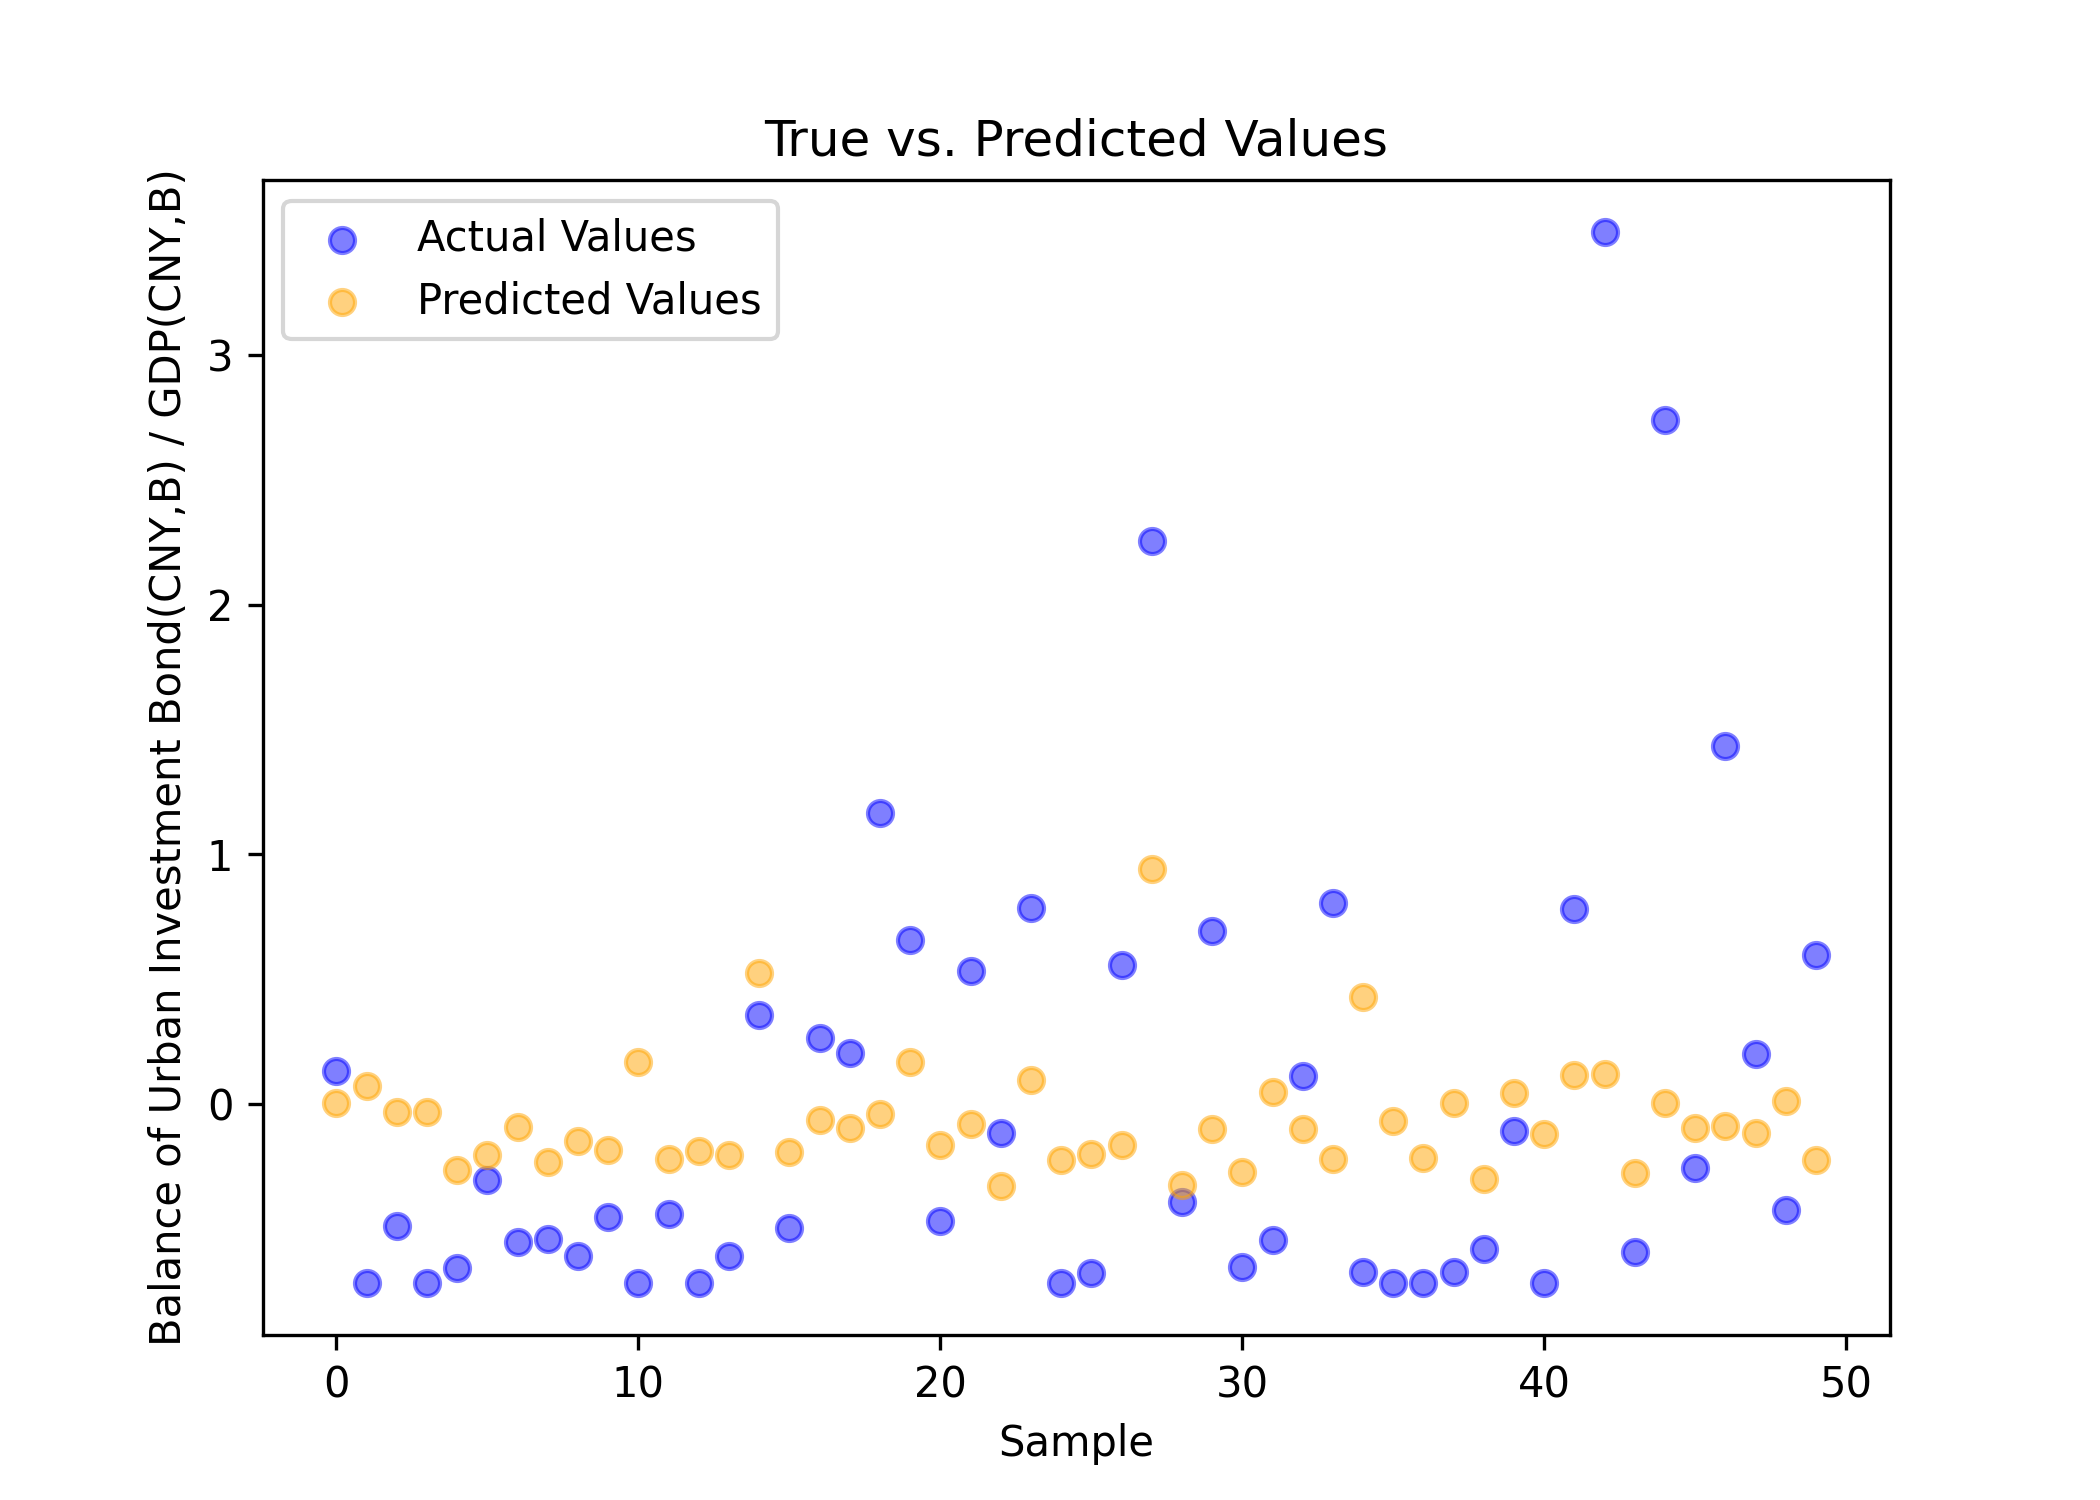
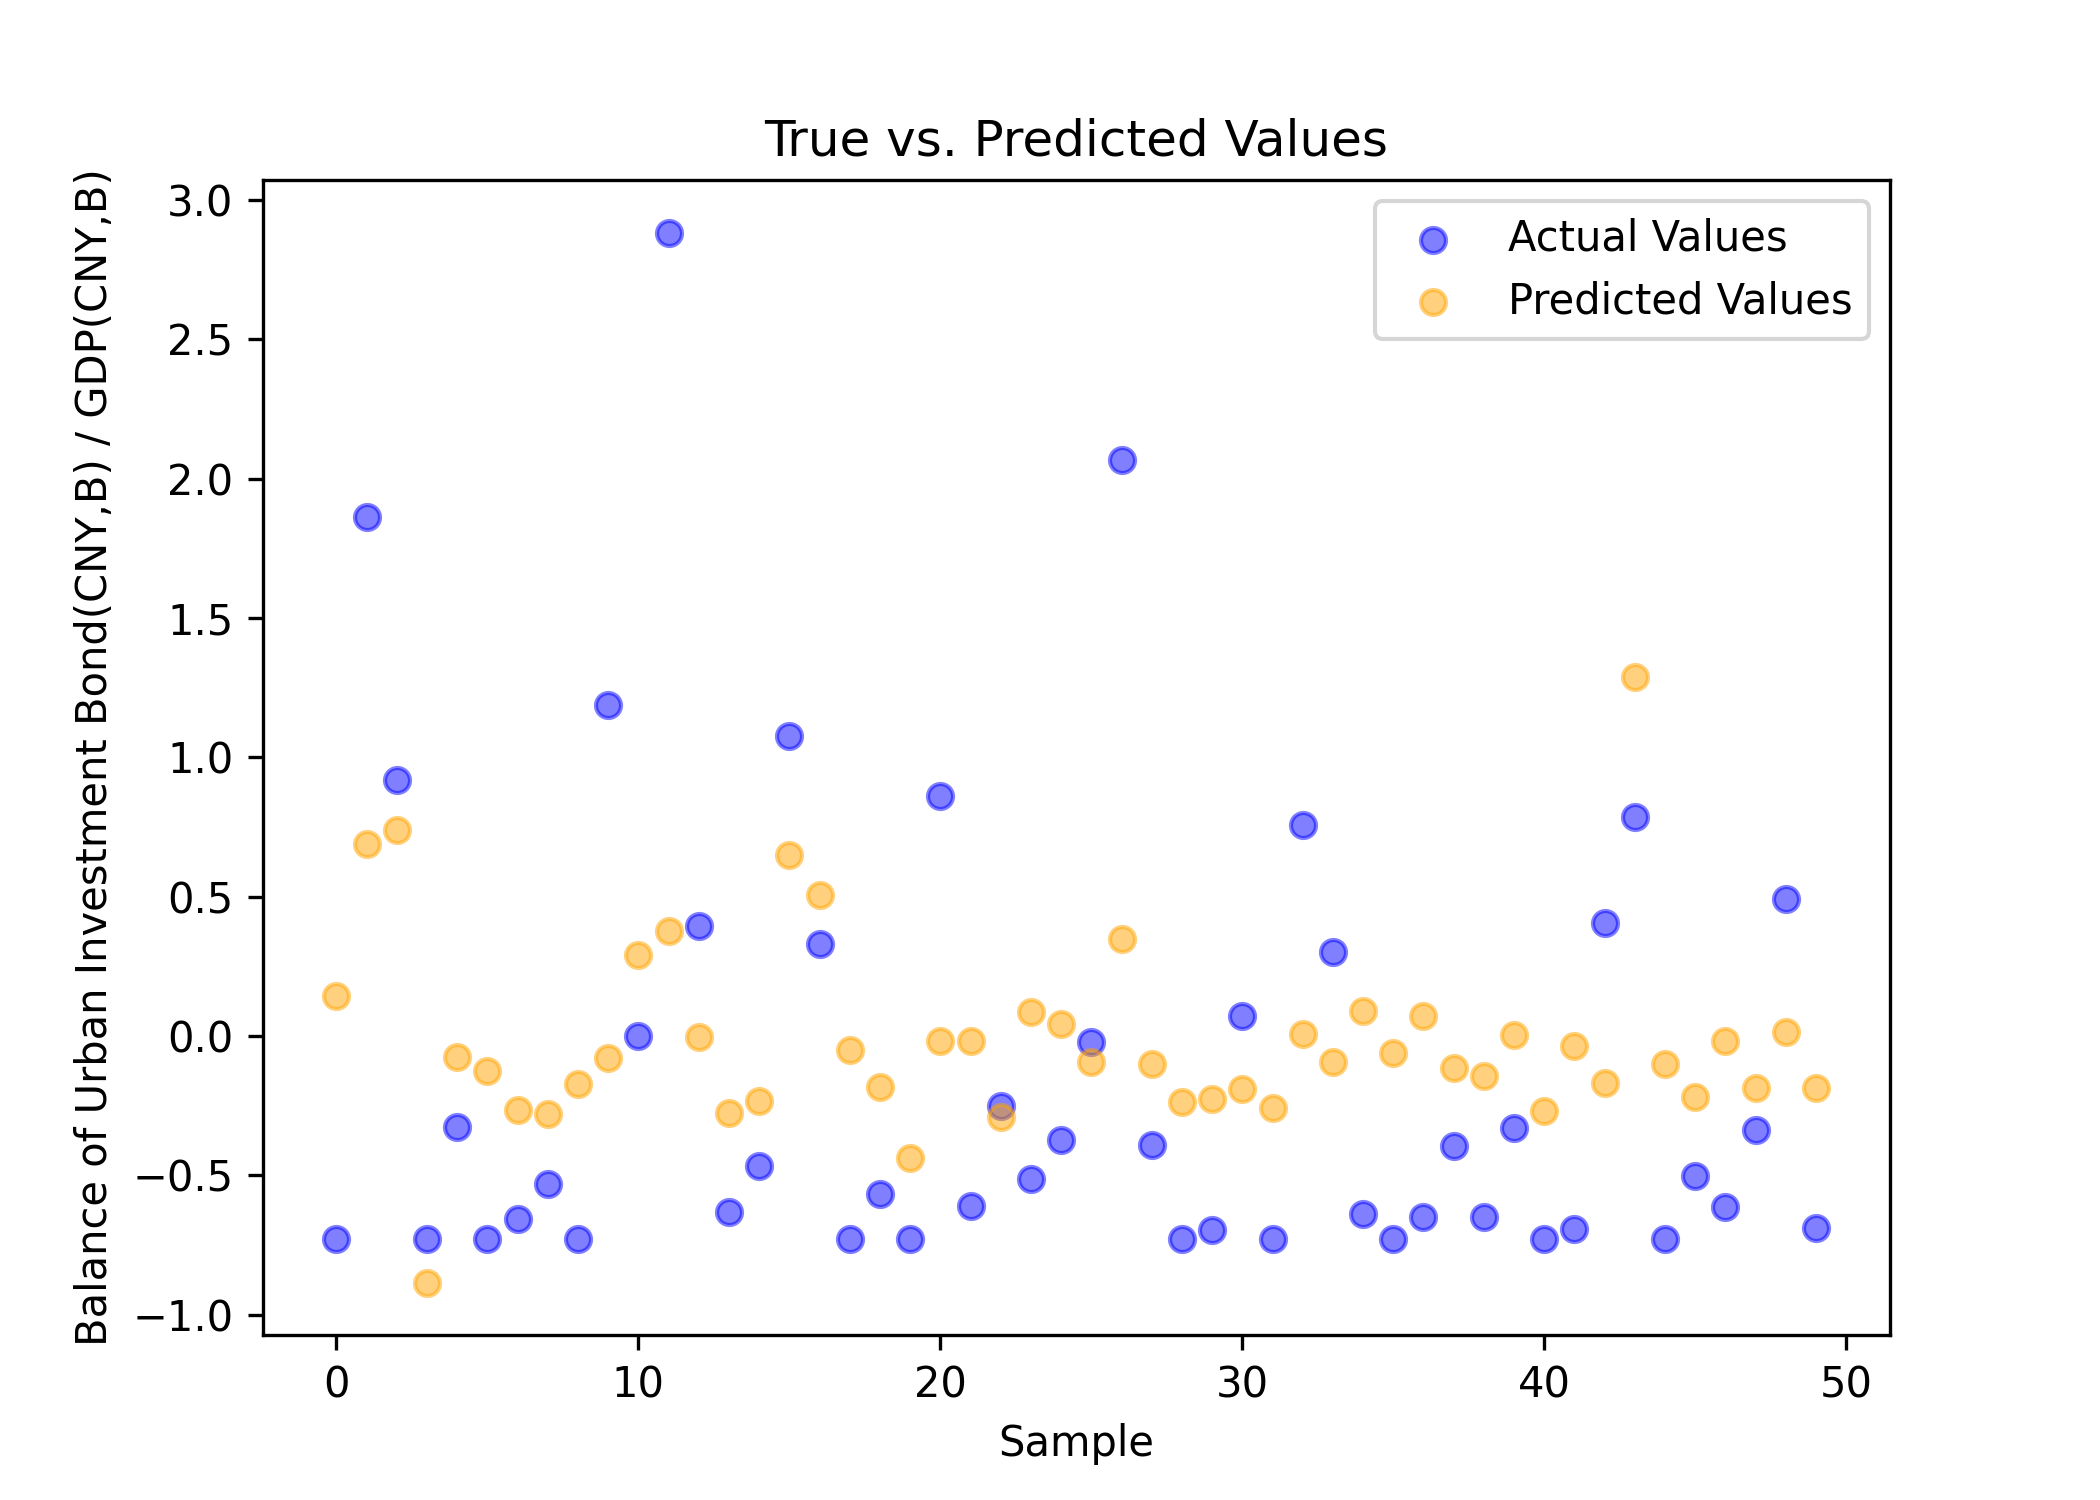
added random forest regression
added random_forest_regressor.py which is random forest regression

diff --git a/random_forest_regressor.py b/random_forest_regressor.py
@@ -10,10 +10,12 @@ import torch
 import torch.nn as nn
 import torch.optim as optim
 import matplotlib.pyplot as plt
-from itertools import combinations
 from sklearn.model_selection import train_test_split
 from sklearn.preprocessing import StandardScaler
 from sklearn.metrics import r2_score
+from sklearn.ensemble import RandomForestRegressor
+from sklearn.pipeline import make_pipeline
+from sklearn.metrics import mean_squared_error
 
 
 df = pd.read_excel("merged_city_year_panel milestone updated.xlsx")
@@ -84,7 +86,7 @@ features2 = [
 
 outcomes = [outcome1, outcome2] # list of possible outcomes 
 
-def lin_reg(outcome, features, num):
+def random_forest_regressor(outcome, features, num):
 
     # create train/test split
     train_data = pd.DataFrame()
@@ -94,60 +96,32 @@ def lin_reg(outcome, features, num):
         train_data = pd.concat([train_data, train], ignore_index=True)
         test_data = pd.concat([test_data, test], ignore_index=True)                                                 
 
-    # scale data
-    scaler = StandardScaler()
-    scaler.fit(train_data[all_features])
-    train_data[all_features] = scaler.transform(train_data[all_features])
-    scaler.fit(test_data[all_features])
-    test_data[all_features] = scaler.transform(test_data[all_features])
-    scaler.fit(train_data[outcomes])
-    train_data[outcomes] = scaler.transform(train_data[outcomes])
-    scaler.fit(test_data[outcomes])
-    test_data[outcomes] = scaler.transform(test_data[outcomes])
+    x_train = train_data[features]
+    x_test = test_data[features]
+    y_train = train_data[outcome]
+    y_test = test_data[outcome]
 
-    class LinearRegression(nn.Module):
-        def __init__(self, num_features):
-            super(LinearRegression, self).__init__()
-            self.linear = nn.Linear(num_features, 1)
-
-        def forward(self, x):
-            return self.linear(x)
-
-    x_train = torch.from_numpy(train_data[features].to_numpy()).type(torch.float32)
-    x_test = torch.from_numpy(test_data[features].to_numpy()).type(torch.float32)
-    y_train = torch.from_numpy(train_data[outcome].to_numpy()).type(torch.float32)
-    y_test = torch.from_numpy(test_data[outcome].to_numpy()).type(torch.float32)
-
-    model = LinearRegression(len(features))
-    criterion = nn.MSELoss()
-    optimizer = optim.SGD(model.parameters(), lr=0.01, momentum=0.9)
-
-    num_epochs = 1000
-    for i in range(num_epochs):
-        optimizer.zero_grad()
-        y_predict = model(x_train)
-        loss = criterion(y_predict.squeeze(), y_train)
-        loss.backward()
-        optimizer.step()
-
-    predictions = model(x_test).squeeze()
+    pipeline = make_pipeline(
+        StandardScaler(),
+        RandomForestRegressor()
+    )
+    pipeline.fit(x_train, y_train)
+    predictions = pipeline.predict(x_test)
 
     # compute MSE
-    mse = criterion(predictions.squeeze(), y_test)
+    mse = mean_squared_error(y_test, predictions)
 
     # compute r2 score
-    predictions_np = predictions.detach().numpy()
-    y_test_np = y_test.detach().numpy()
-    r2 = r2_score(y_test_np, predictions_np)
+    r2 = r2_score(y_test, predictions)
 
     print(f'MSE: {mse}')
     print(f'R2: {r2}')
 
     # select 100 random points to plot (otherwise too crowded)
-    sample = np.random.choice(len(y_test_np), 50, replace=False)
-    predictions_sample = predictions.detach().numpy()[sample]
-    test_sample = y_test_np[sample]
-
+    sample = np.random.choice(len(y_test), 50, replace=False)
+    predictions_sample = predictions[sample]
+    test_sample = y_test[sample]
+    
     # scatterplot
     plt.figure(figsize=(7, 5))
     plt.scatter(range(len(test_sample)), test_sample, label="Actual Values", alpha=0.5, color="blue")
@@ -158,11 +132,10 @@ def lin_reg(outcome, features, num):
     plt.title("True vs. Predicted Values")
     # plt.text(5, max(test_sample) * 0.9, f'MSE: {mse:.4f}\nR²: {r2:.4f}', fontsize=10, fontweight='bold')
     plt.legend()
-    plt.savefig("residual_plot_" + str(num) + ".png", dpi=300) 
+    plt.savefig("forest_plot_" + str(num) + ".png", dpi=300) 
     plt.show()
 
-
-# run linear regression
-lin_reg(outcome1, features1, 1)
-lin_reg(outcome2, features2, 2)
+# run feature engineering
+random_forest_regressor(outcome1, features1, 1)
+random_forest_regressor(outcome2, features2, 2)
 
